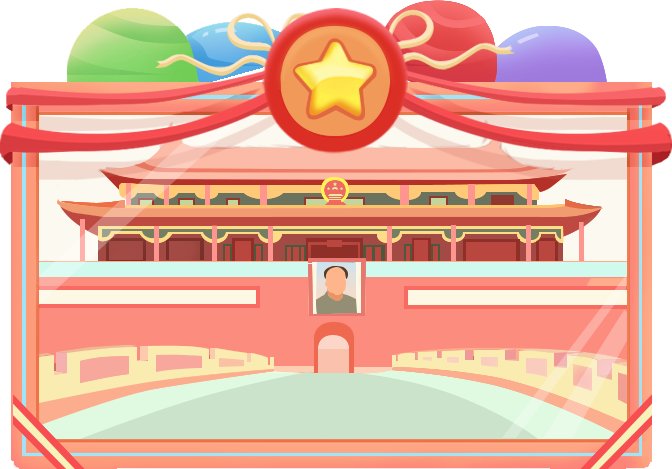
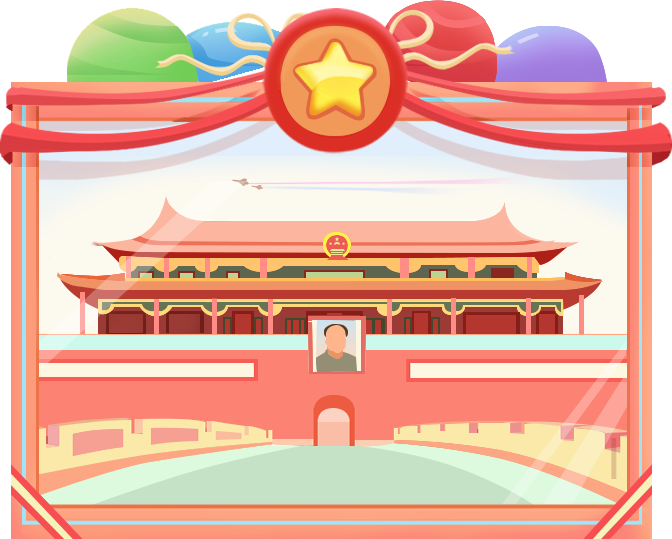
feat(success): 视觉图修改

diff --git a/src/pages/Success.tsx b/src/pages/Success.tsx
@@ -34,7 +34,7 @@ const Title = styled(animated.div)`
 const Card = styled(animated.div)`
   background-size: cover;
   background-image: url("${SuccessCardPng}");
-  height: 469px;
+  height: 539px;
   width: 672px;
   margin: 0 auto;
   z-index: 1;
